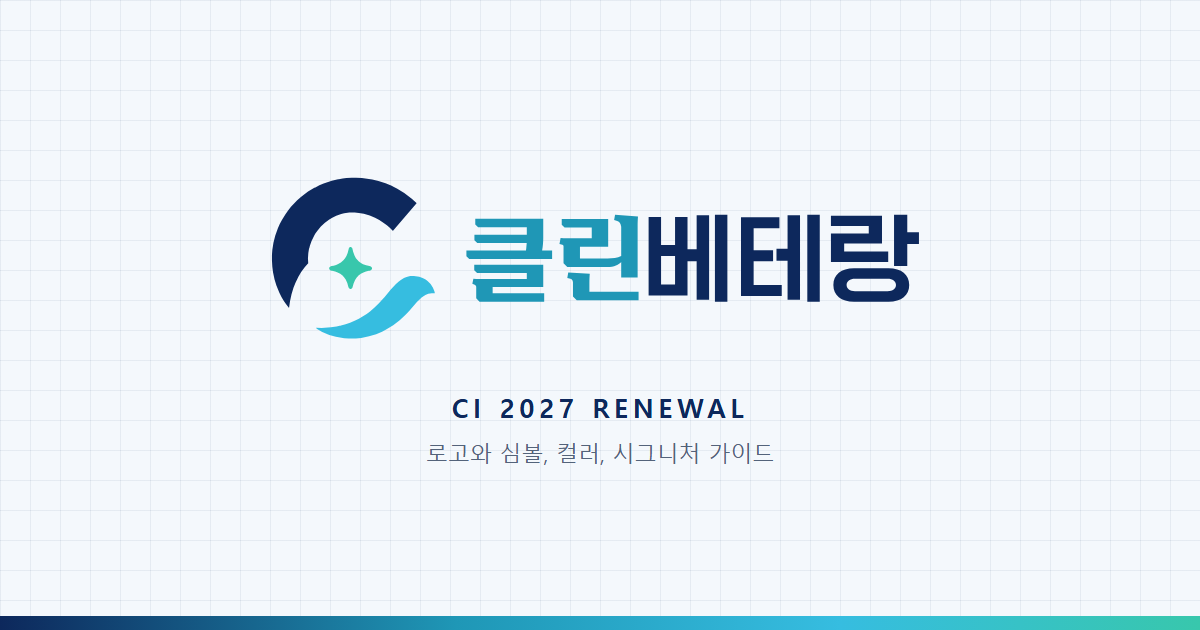
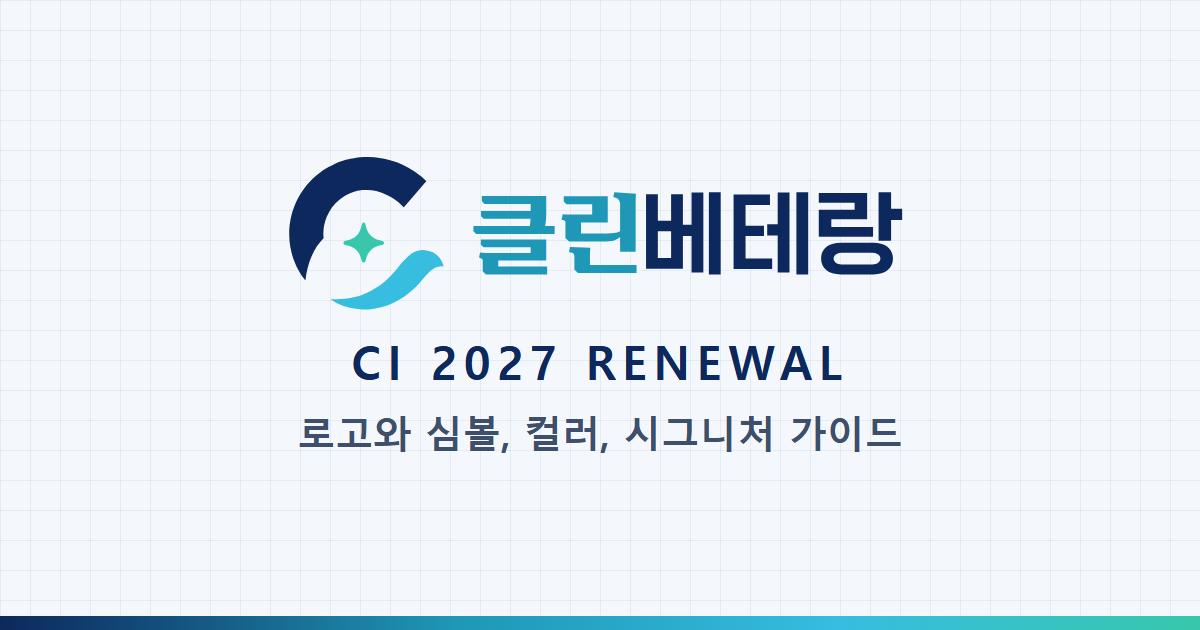
Move to cleanveteran.github.io, larger OG text

Changed region(s): [[0.2158, 0.2413, 0.7708, 0.6032], [0.2467, 0.6333, 0.74, 0.754], [0.4933, 0.5429, 0.7092, 0.6032]]

diff --git a/index.html b/index.html
@@ -6,7 +6,7 @@
 <title>클린베테랑 CI</title>
 <meta name="description" content="클린베테랑 CI 2027 Renewal. 로고와 심볼, 컬러, 시그니처 가이드">
 <link rel="icon" type="image/svg+xml" href="assets/favicon.svg"><link rel="icon" type="image/png" sizes="512x512" href="assets/icon-512.png"><link rel="apple-touch-icon" href="assets/icon-180.png">
-<meta property="og:type" content="website"><meta property="og:url" content="https://pray5549-prog.github.io/cleanveteran-ci/"><meta property="og:title" content="클린베테랑 CI 2027 Renewal"><meta property="og:description" content="로고와 심볼, 컬러, 시그니처 가이드"><meta property="og:image" content="https://pray5549-prog.github.io/cleanveteran-ci/assets/og-image.png"><meta property="og:image:width" content="1200"><meta property="og:image:height" content="630"><meta name="twitter:card" content="summary_large_image"><meta name="theme-color" content="#0D285C">
+<meta property="og:type" content="website"><meta property="og:url" content="https://cleanveteran.github.io/"><meta property="og:title" content="클린베테랑 CI 2027 Renewal"><meta property="og:description" content="로고와 심볼, 컬러, 시그니처 가이드"><meta property="og:image" content="https://cleanveteran.github.io/assets/og-image.png"><meta property="og:image:width" content="1200"><meta property="og:image:height" content="630"><meta name="twitter:card" content="summary_large_image"><meta name="theme-color" content="#0D285C">
 <style>
 :root{--navy:#0D285C;--teal:#1F97B6;--cyan:#36BDE0;--mint:#38C7AC;--white:#fff;--ink:#122342;--muted:#53637a;--line:#dce5ef;--paper:#f4f8fc;--wrap:1180px;--board:1177px;--step:21px;--btn-width:218px;--btn-height:54px;}
 *{box-sizing:border-box} body{margin:0;background:white;font-family:Pretendard,"Malgun Gothic","Apple SD Gothic Neo",sans-serif;color:var(--ink);word-break:keep-all} a{color:var(--navy)} button,a,summary{-webkit-tap-highlight-color:transparent} :focus-visible{outline:3px solid #167991;outline-offset:3px}
